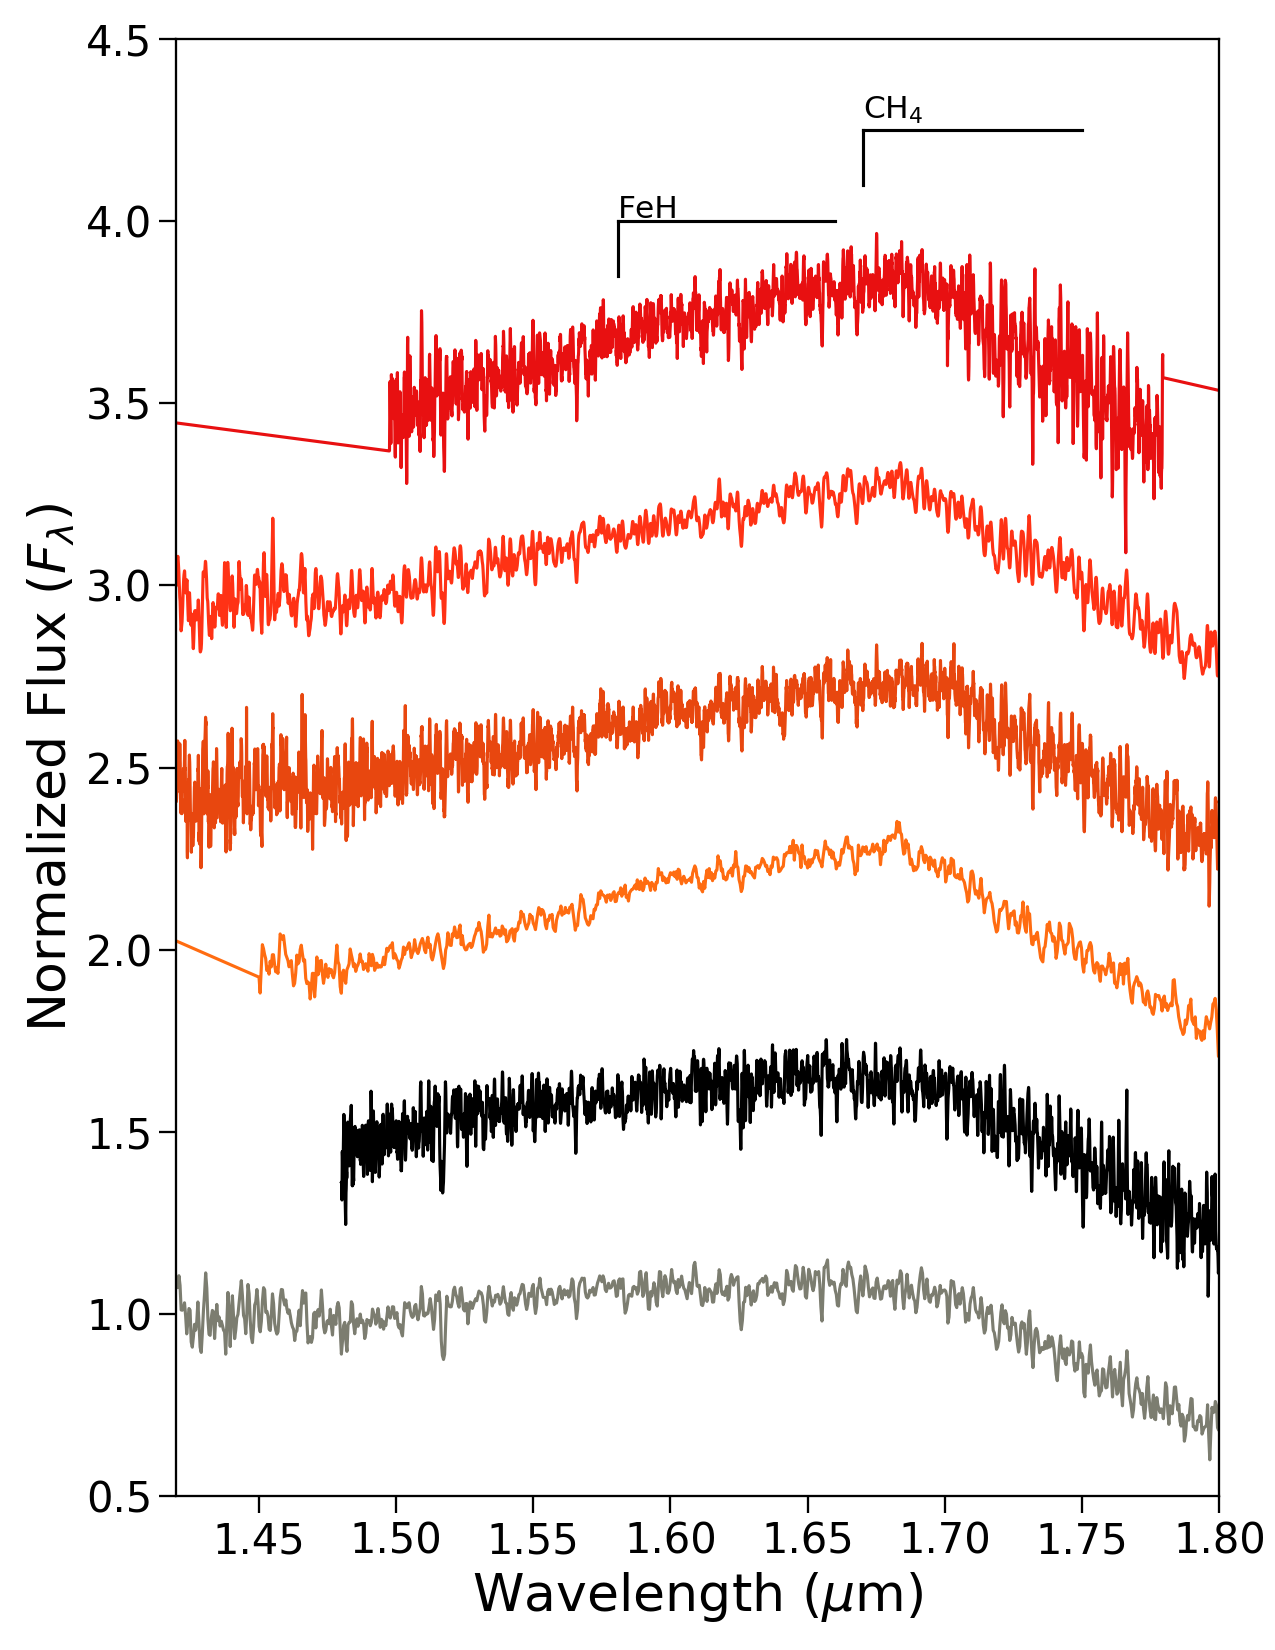
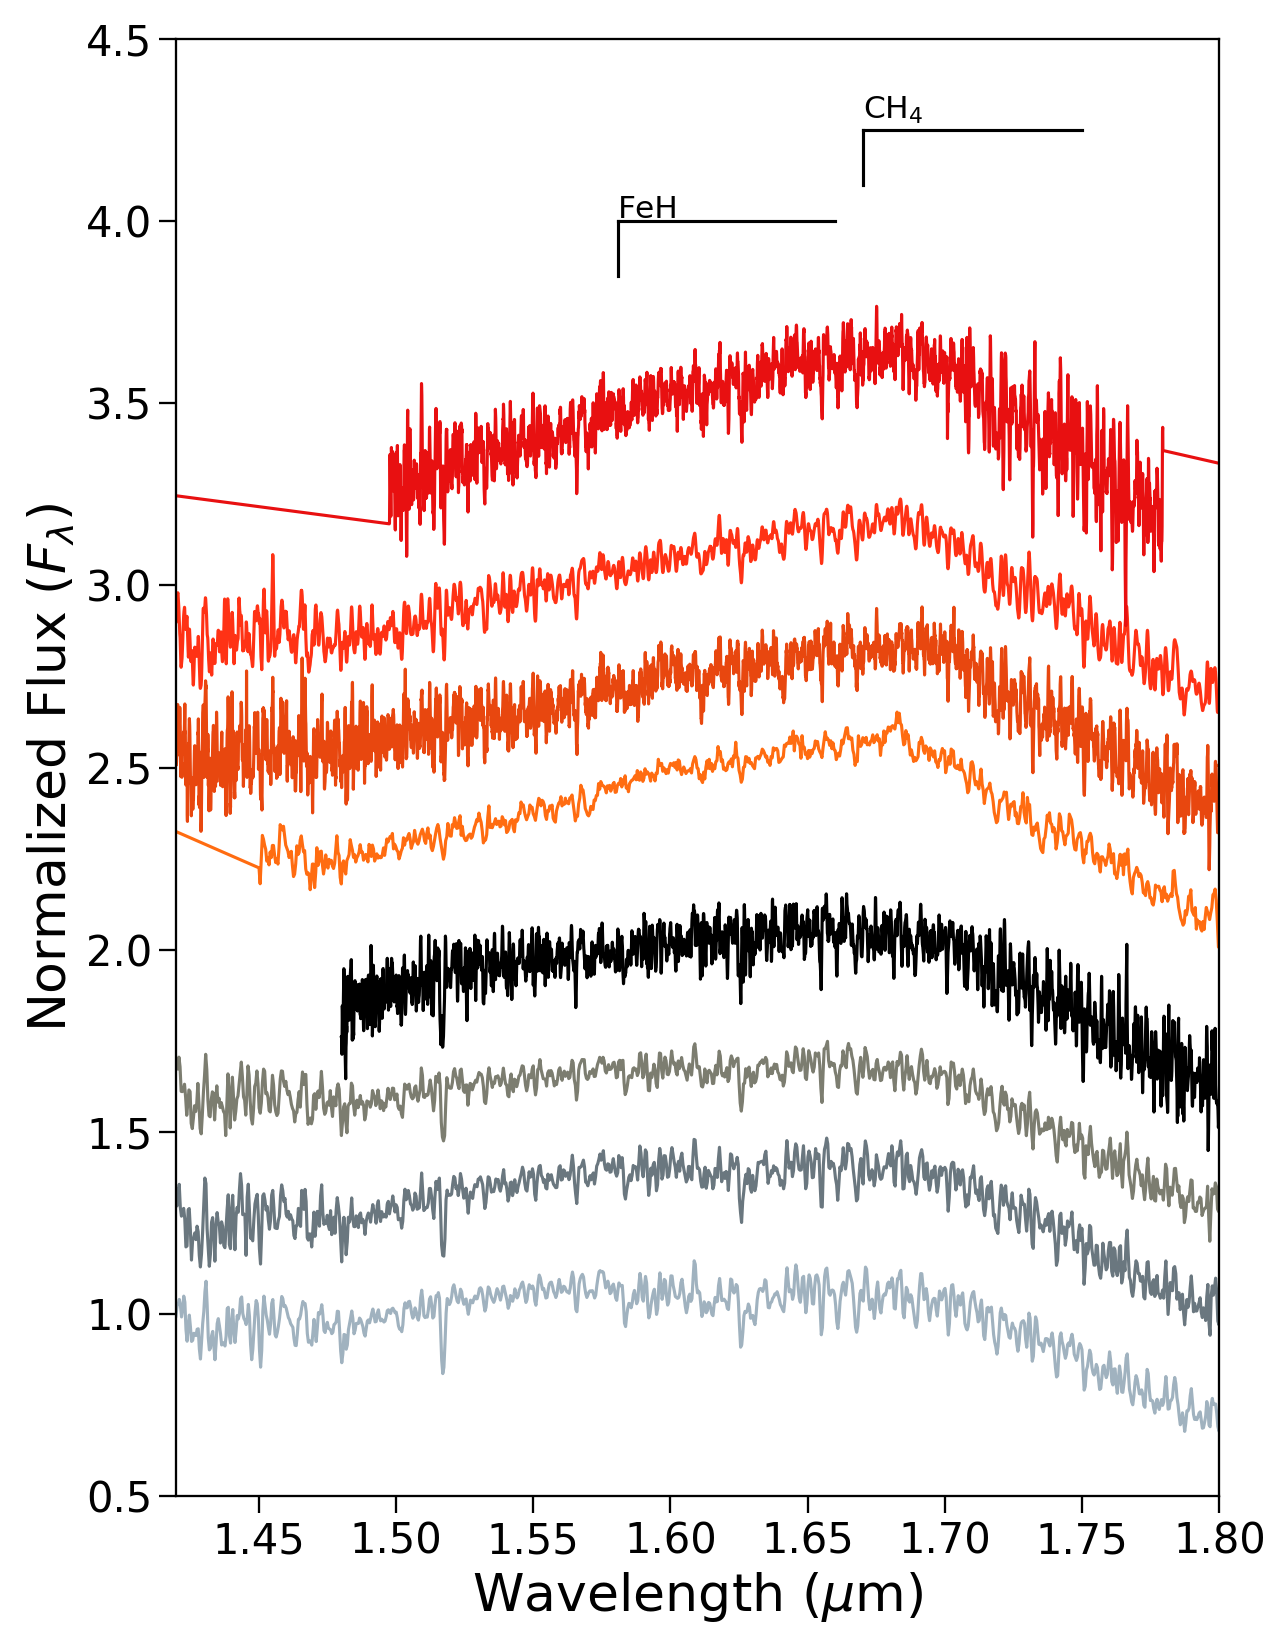
Added more field objects

Changed region(s): [[0.1224, 0.1545, 0.9788, 0.8655]]

diff --git a/YbandTeff_youngandfield.py b/YbandTeff_youngandfield.py
@@ -13,6 +13,10 @@ df_trap = pd.read_csv('Data/FIRE2306-0502 (M7.5) SED.txt', sep=" ", comment='#',
 # ----Field---
 df_vb8 = pd.read_csv('Data/field_comp/1655-0823 (M7) SED.txt', sep=" ", comment='#', header=None,
                        names=["w", "f", "err"])
+df_vb10 = pd.read_csv('Data/field_comp/1916+0508 (M8) SED.txt', sep=" ", comment='#', header=None,
+                       names=["w", "f", "err"])
+df_0320 = pd.read_csv('Data/field_comp/0320+1854 (M8) SED.txt', sep=" ", comment='#', header=None,
+                       names=["w", "f", "err"])
 # ----Young----
 df_twa27 = pd.read_csv('Data/young_comp/1207-3932A (M8) SED.txt', sep=" ", comment='#', header=None,
                       names=["w", "f", "err"])
@@ -32,6 +36,12 @@ norm_df_trap = df_trap['f']/(np.average(norm_region['f']))
 
 norm_region2 = df_vb8[(df_vb8['w'] >= 0.98) & (df_vb8['w'] <= 0.988)]
 norm_df_vb8 = df_vb8['f']/(np.average(norm_region2['f']))
+
+norm_region7 = df_vb10[(df_vb10['w'] >= 0.98) & (df_vb10['w'] <= 0.988)]
+norm_df_vb10 = df_vb10['f']/(np.average(norm_region7['f']))
+
+norm_region8 = df_0320[(df_0320['w'] >= 0.98) & (df_0320['w'] <= 0.988)]
+norm_df_0320 = df_0320['f']/(np.average(norm_region8['f']))
 
 norm_region3 = df_twa27[(df_twa27['w'] >= 0.98) & (df_twa27['w'] <= 0.988)]
 norm_df_twa27 = df_twa27['f']/(np.average(norm_region3['f']))
@@ -54,7 +64,7 @@ ax1 = fig.add_subplot(111)
 fig.set_size_inches(8.5, 11)
 plt.gcf().subplots_adjust(bottom=0.15, left=0.15)
 plt.xlim([0.95, 1.10])
-plt.ylim([0.5, 5.2])
+plt.ylim([0.25, 6.3])
 for axis in ['top', 'bottom', 'left', 'right']:  # Thicken the frame
     ax1.spines[axis].set_linewidth(1.1)
 
@@ -64,53 +74,55 @@ plt.xlabel('Wavelength ($\mu$m)', fontsize=25)
 plt.ylabel('Normalized Flux ($F_\lambda$)', fontsize=25)
 
 # -------- Add data -----------
-ax1.plot(df_vb8['w'], norm_df_vb8, c='#7C7D70')
-ax1.plot(df_trap['w'], norm_df_trap + .5, c='k')
-ax1.plot(df_twa27['w'], norm_df_twa27 + 1, c='#FF6C11')
-ax1.plot(df_twa28['w'], norm_df_twa28 + 1.5, c='#E8470F')
-ax1.plot(df_twa26['w'], norm_df_twa26 + 2, c='#FF3215')
-ax1.plot(df_twa29['w'], norm_df_twa29 + 3.1, c='#E81011')
+ax1.plot(df_0320['w'], norm_df_0320, c='#A0B2BF')
+ax1.plot(df_vb10['w'], norm_df_vb10 + 0.5, c='#6A777F')
+ax1.plot(df_vb8['w'], norm_df_vb8 + 1, c='#7C7D70')
+ax1.plot(df_trap['w'], norm_df_trap + 1.5, c='k')
+ax1.plot(df_twa27['w'], norm_df_twa27 + 2, c='#FF6C11')
+ax1.plot(df_twa28['w'], norm_df_twa28 + 2.5, c='#E8470F')
+ax1.plot(df_twa26['w'], norm_df_twa26 + 3, c='#FF3215')
+ax1.plot(df_twa29['w'], norm_df_twa29 + 4.1, c='#E81011')
 
 # --- To make lines for features ---------
 FeH1 = pd.DataFrame()
 FeH1['x'] = [0.9896, 1.0]
-FeH1['y'] = [4.4, 4.4]
+FeH1['y'] = [5.4, 5.4]
 plt.plot(FeH1['x'], FeH1['y'], color='k')
-ax1.annotate('FeH', xy=(0.9896, 4.41), color='k', fontsize=15)
+ax1.annotate('FeH', xy=(0.9896, 5.41), color='k', fontsize=15)
 # -- To make a vertical line
 FeH1d = pd.DataFrame()
 FeH1d['x'] = [0.9896, 0.9896]
-FeH1d['y'] = [4.2, 4.4]
+FeH1d['y'] = [5.2, 5.4]
 plt.plot(FeH1d['x'], FeH1d['y'], color='k')
 
 FeH2 = pd.DataFrame()
 FeH2['x'] = [0.998, 1.085]
-FeH2['y'] = [4.75, 4.75]
+FeH2['y'] = [5.75, 5.75]
 plt.plot(FeH2['x'], FeH2['y'], color='k')
-ax1.annotate('FeH', xy=(0.998, 4.76), color='k', fontsize=15)
+ax1.annotate('FeH', xy=(1.03, 5.76), color='k', fontsize=15)
 FeH2d = pd.DataFrame()
 FeH2d['x'] = [0.998, 0.998]
-FeH2d['y'] = [4.6, 4.75]
+FeH2d['y'] = [5.6, 5.75]
 plt.plot(FeH2d['x'], FeH2d['y'], color='k')
 
 VO = pd.DataFrame()
 VO['x'] = [1.0456, 1.08]
-VO['y'] = [4.54, 4.54]
+VO['y'] = [5.5, 5.5]
 plt.plot(VO['x'], VO['y'], color='k')
-ax1.annotate('VO', xy=(1.0456, 4.55), color='k', fontsize=15)
+ax1.annotate('VO', xy=(1.06, 5.51), color='k', fontsize=15)
 VOd = pd.DataFrame()
 VOd['x'] = [1.0456, 1.0456]
-VOd['y'] = [4.54, 4.41]
+VOd['y'] = [5.5, 5.35]
 plt.plot(VOd['x'], VOd['y'], color='k')
 
 H2O = pd.DataFrame()
 H2O['x'] = [1.08, 1.099]
-H2O['y'] = [5, 5]
+H2O['y'] = [6, 6]
 plt.plot(H2O['x'], H2O['y'], color='k')
-ax1.annotate('H$_\mathrm{2} $O', xy=(1.08, 5.05), color='k', fontsize=15)
+ax1.annotate('H$_\mathrm{2} $O', xy=(1.08, 6.05), color='k', fontsize=15)
 H2Od = pd.DataFrame()
 H2Od['x'] = [1.08, 1.08]
-H2Od['y'] = [4.85, 5]
+H2Od['y'] = [5.85, 6]
 plt.plot(H2Od['x'], H2Od['y'], color='k')
 
 plt.tight_layout()

diff --git a/Kbandteffcomp.py b/Kbandteffcomp.py
@@ -13,6 +13,10 @@ df_trap = pd.read_csv('Data/FIRE2306-0502 (M7.5) SED.txt', sep=" ", comment='#',
 # ----Field---
 df_vb8 = pd.read_csv('Data/field_comp/1655-0823 (M7) SED.txt', sep=" ", comment='#', header=None,
                        names=["w", "f", "err"])
+df_vb10 = pd.read_csv('Data/field_comp/1916+0508 (M8) SED.txt', sep=" ", comment='#', header=None,
+                       names=["w", "f", "err"])
+df_0320 = pd.read_csv('Data/field_comp/0320+1854 (M8) SED.txt', sep=" ", comment='#', header=None,
+                       names=["w", "f", "err"])
 # ----Young----
 df_twa27 = pd.read_csv('Data/young_comp/1207-3932A (M8) SED.txt', sep=" ", comment='#', header=None,
                       names=["w", "f", "err"])
@@ -32,6 +36,12 @@ norm_df_trap = df_trap['f']/(np.average(norm_region['f']))
 
 norm_region2 = df_vb8[(df_vb8['w'] >= 2.16) & (df_vb8['w'] <= 2.20)]
 norm_df_vb8 = df_vb8['f']/(np.average(norm_region2['f']))
+
+norm_region7 = df_vb10[(df_vb10['w'] >= 2.16) & (df_vb10['w'] <= 2.20)]
+norm_df_vb10 = df_vb10['f']/(np.average(norm_region7['f']))
+
+norm_region8 = df_0320[(df_0320['w'] >= 2.16) & (df_0320['w'] <= 2.20)]
+norm_df_0320 = df_0320['f']/(np.average(norm_region8['f']))
 
 norm_region3 = df_twa27[(df_twa27['w'] >= 2.16) & (df_twa27['w'] <= 2.20)]
 norm_df_twa27 = df_twa27['f']/(np.average(norm_region3['f']))
@@ -55,7 +65,7 @@ ax1 = fig.add_subplot(111)
 fig.set_size_inches(8.5, 11)
 plt.gcf().subplots_adjust(bottom=0.15, left=0.15)
 plt.xlim([2.0, 2.35])
-plt.ylim([0.5, 4.5])
+plt.ylim([0.5, 5.5])
 for axis in ['top', 'bottom', 'left', 'right']:  # Thicken the frame
     ax1.spines[axis].set_linewidth(1.1)
 
@@ -65,34 +75,36 @@ plt.xlabel('Wavelength ($\mu$m)', fontsize=25)
 plt.ylabel('Normalized Flux ($F_\lambda$)', fontsize=25)
 
 # -------- Add data -----------
-ax1.plot(df_vb8['w'], norm_df_vb8, c='#7C7D70')
-ax1.plot(df_trap['w'], norm_df_trap + 0.5, c='k')
-ax1.plot(df_twa27['w'], norm_df_twa27 + 1, c='#FF6C11')
-ax1.plot(df_twa28['w'], norm_df_twa28 + 1.5, c='#E8470F')
-ax1.plot(df_twa26['w'], norm_df_twa26 + 2, c='#FF3215')
-ax1.plot(df_twa29['w'], norm_df_twa29 + 2.5, c='#E81011')
+ax1.plot(df_0320['w'], norm_df_0320, c='#A0B2BF')
+ax1.plot(df_vb10['w'], norm_df_vb10 + 0.5, c='#6A777F')
+ax1.plot(df_vb8['w'], norm_df_vb8 + 1, c='#7C7D70')
+ax1.plot(df_trap['w'], norm_df_trap + 1.5, c='k')
+ax1.plot(df_twa27['w'], norm_df_twa27 + 2, c='#FF6C11')
+ax1.plot(df_twa28['w'], norm_df_twa28 + 2.5, c='#E8470F')
+ax1.plot(df_twa26['w'], norm_df_twa26 + 3, c='#FF3215')
+ax1.plot(df_twa29['w'], norm_df_twa29 + 3.5, c='#E81011')
 
 # ------- Label Features --------------------------
 H2O = pd.DataFrame()
 H2O['x'] = [2.00, 2.20]
-H2O['y'] = [3.8, 3.8]
+H2O['y'] = [4.8, 4.8]
 plt.plot(H2O['x'], H2O['y'], color='k')
-ax1.annotate('H$_\mathrm{2} $O', xy=(2.09, 3.85), color='k', fontsize=15)
+ax1.annotate('H$_\mathrm{2} $O', xy=(2.09, 4.85), color='k', fontsize=15)
 
 CIA_H2 = pd.DataFrame()
 CIA_H2['x'] = [2.01, 2.34]
-CIA_H2['y'] = [4.2, 4.2]
+CIA_H2['y'] = [5.2, 5.2]
 plt.plot(CIA_H2['x'], CIA_H2['y'], color='k')
-ax1.annotate('CIA H$_\mathrm{2} $', xy=(2.15, 4.25), color='k', fontsize=15)
+ax1.annotate('CIA H$_\mathrm{2} $', xy=(2.15, 5.25), color='k', fontsize=15)
 
 CO = pd.DataFrame()
 CO['x'] = [2.295, 2.34]
-CO['y'] = [3.8, 3.8]
+CO['y'] = [4.8, 4.8]
 plt.plot(CO['x'], CO['y'], color='k')
-ax1.annotate('CO', xy=(2.31, 3.82), color='k', fontsize=15)
+ax1.annotate('CO', xy=(2.31, 4.82), color='k', fontsize=15)
 COd = pd.DataFrame()
 COd['x'] = [2.295, 2.295]
-COd['y'] = [3.65, 3.8]
+COd['y'] = [4.65, 4.8]
 plt.plot(COd['x'], COd['y'], color='k')
 
 plt.tight_layout()

diff --git a/Field_overall_comparison.py b/Field_overall_comparison.py
@@ -21,6 +21,15 @@ df_1655 = pd.read_csv('Data/field_comp/1655-0823 (M7) SED.txt', sep=" ", comment
 df_1655_phot = pd.read_csv('Data/field_comp/1655-0823 (M7) phot.txt', sep=" ", comment='#', header=None,
                             names=["w", "f", "err"])
 
+df_vb10 = pd.read_csv('Data/field_comp/1916+0508 (M8) SED.txt', sep=" ", comment='#', header=None,
+                       names=["w", "f", "err"])
+df_vb10_phot = pd.read_csv('Data/field_comp/1916+0508 (M8) phot.txt', sep=" ", comment='#', header=None,
+                       names=["w", "f", "err"])
+df_0320 = pd.read_csv('Data/field_comp/0320+1854 (M8) SED.txt', sep=" ", comment='#', header=None,
+                       names=["w", "f", "err"])
+df_0320_phot = pd.read_csv('Data/field_comp/0320+1854 (M8) phot.txt', sep=" ", comment='#', header=None,
+                       names=["w", "f", "err"])
+
 # -------------------------------------------------------------------------------------
 # ------------------- Plotting: Field Comparison of same Teff -------------------------------
 # -------------------------------------------------------------------------------------
@@ -41,15 +50,22 @@ ax1.scatter(df_trap_phot['w'], df_trap_phot['f'], c='k', s=70, zorder=10)
 ax1.loglog(df_0102['w'], df_0102['f'], c='#09D5D6')
 ax1.scatter(df_0102_phot['w'], df_0102_phot['f'], c='k', s=70)
 ax1.scatter(df_0102_phot['w'], df_0102_phot['f'], c='#09D5D6', s=50)
+ax1.loglog(df_vb10['w'], df_vb10['f'], c='green')
+ax1.scatter(df_vb10_phot['w'], df_vb10_phot['f'], c='k', s=70)
+ax1.scatter(df_vb10_phot['w'], df_vb10_phot['f'], c='green', s=50)
+ax1.loglog(df_0320['w'], df_0320['f'], c='#1EE801')
+ax1.scatter(df_0320_phot['w'], df_0320_phot['f'], c='k', s=70)
+ax1.scatter(df_0320_phot['w'], df_0320_phot['f'], c='#1EE801', s=50)
+
 #ax1.scatter(df_trap_phot['w'], df_trap_phot['f'], c='#7C7D70', s=50, zorder=10)
 
 
 # ----- Set axes limits, reformat ticks -----------
-plt.xlim([0.3, 24])
-plt.ylim([1*10**(-18), 3*10**(-14)])
+plt.xlim([0.3, 31])
+plt.ylim([4*10**(-20), 3*10**(-14)])
 ax1.xaxis.set_major_formatter(ScalarFormatter())
 ax1.xaxis.set_minor_formatter(ScalarFormatter())
-ax1.xaxis.set_minor_locator(plt.FixedLocator([0.3, 0.6, 2, 3, 7.5, 22]))
+ax1.xaxis.set_minor_locator(plt.FixedLocator([0.3, 0.6, 2, 3, 7.5, 31]))
 ax1.tick_params(axis='both', which='major', labelsize=20, length=8, width=1.1)
 ax1.tick_params(axis='both', which='minor', labelsize=20, length=4, width=1.1)
 plt.yticks(fontsize=20)
@@ -59,9 +75,11 @@ plt.xlabel('Wavelength ($\mu m$)', fontsize=25)
 plt.ylabel('Flux  ($erg\ s^{-1} cm^{-2} A^{-1}$)', fontsize=25)
 
 # ------ Labeling Spectra and Photometric points --------
-ax1.annotate('Trappist-1 (M7.5) $T_\mathrm{eff}: 2589 \pm 49$ K', xy=(2.85, 10**(-14)), color='k', fontsize=15)
+ax1.annotate('Trappist-1 (M7.5) $T_\mathrm{eff}: 2563 \pm 47$ K', xy=(2.85, 10**(-14)), color='k', fontsize=15)
 ax1.annotate('vb8 (M7) $T_\mathrm{eff}: 2641 \pm 36$ K', xy=(3.1, 5.2*10**(-15)), color='#04A57F', fontsize=15)
 ax1.annotate('LHS 132 (M8) $T_\mathrm{eff}: 2636 \pm 63$ K', xy=(3.1, 3*10**(-15)), color='#09D5D6', fontsize=15)
+ax1.annotate('vb10 (M8) $T_\mathrm{eff}: 2535 \pm 45$ K', xy=(4.1, 10**(-19)), color='green', fontsize=15)
+ax1.annotate('J0320+1854 (M8) $T_\mathrm{eff}: 2616 \pm 47$ K', xy=(4.1, 10**(-15)), color='#1EE801', fontsize=15)
 
 #TODO: Try a different color scheme maybe shades of grey for field objects?
 

diff --git a/Jbandteffcomp.py b/Jbandteffcomp.py
@@ -13,6 +13,10 @@ df_trap = pd.read_csv('Data/FIRE2306-0502 (M7.5) SED.txt', sep=" ", comment='#',
 # ----Field---
 df_vb8 = pd.read_csv('Data/field_comp/1655-0823 (M7) SED.txt', sep=" ", comment='#', header=None,
                        names=["w", "f", "err"])
+df_vb10 = pd.read_csv('Data/field_comp/1916+0508 (M8) SED.txt', sep=" ", comment='#', header=None,
+                       names=["w", "f", "err"])
+df_0320 = pd.read_csv('Data/field_comp/0320+1854 (M8) SED.txt', sep=" ", comment='#', header=None,
+                       names=["w", "f", "err"])
 # ----Young----
 df_twa27 = pd.read_csv('Data/young_comp/1207-3932A (M8) SED.txt', sep=" ", comment='#', header=None,
                       names=["w", "f", "err"])
@@ -32,6 +36,12 @@ norm_df_trap = df_trap['f']/(np.average(norm_region['f']))
 
 norm_region2 = df_vb8[(df_vb8['w'] >= 1.22) & (df_vb8['w'] <= 1.23)]
 norm_df_vb8 = df_vb8['f']/(np.average(norm_region2['f']))
+
+norm_region7 = df_vb10[(df_vb10['w'] >= 1.22) & (df_vb10['w'] <= 1.23)]
+norm_df_vb10 = df_vb10['f']/(np.average(norm_region7['f']))
+
+norm_region8 = df_0320[(df_0320['w'] >= 1.22) & (df_0320['w'] <= 1.23)]
+norm_df_0320 = df_0320['f']/(np.average(norm_region8['f']))
 
 norm_region3 = df_twa27[(df_twa27['w'] >= 1.22) & (df_twa27['w'] <= 1.23)]
 norm_df_twa27 = df_twa27['f']/(np.average(norm_region3['f']))
@@ -54,7 +64,7 @@ ax1 = fig.add_subplot(111)
 fig.set_size_inches(8.5, 11)
 plt.gcf().subplots_adjust(bottom=0.15, left=0.15)
 plt.xlim([1.12, 1.35])
-plt.ylim([0, 5])
+plt.ylim([0.25, 6])
 for axis in ['top', 'bottom', 'left', 'right']:  # Thicken the frame
     ax1.spines[axis].set_linewidth(1.1)
 
@@ -64,12 +74,17 @@ plt.xlabel('Wavelength ($\mu$m)', fontsize=25)
 plt.ylabel('Normalized Flux ($F_\lambda$)', fontsize=25)
 
 # -------- Add data -----------
-ax1.plot(df_vb8['w'], norm_df_vb8, c='#7C7D70')
-ax1.plot(df_trap['w'], norm_df_trap + 1, c='k')
-ax1.plot(df_twa27['w'], norm_df_twa27 + 1.5, c='#FF6C11')
-ax1.plot(df_twa28['w'], norm_df_twa28 + 2, c='#E8470F')
-ax1.plot(df_twa26['w'], norm_df_twa26 + 2.5, c='#FF3215')
-ax1.plot(df_twa29['w'], norm_df_twa29 + 3.1, c='#E81011')
+ax1.plot(df_0320['w'], norm_df_0320, c='#A0B2BF')
+ax1.plot(df_vb10['w'], norm_df_vb10 + 0.6, c='#6A777F')
+ax1.plot(df_vb8['w'], norm_df_vb8 + 1.1, c='#7C7D70')
+ax1.plot(df_trap['w'], norm_df_trap + 1.8, c='k')
+ax1.plot(df_twa27['w'], norm_df_twa27 + 2.3, c='#FF6C11')
+ax1.plot(df_twa28['w'], norm_df_twa28 + 2.75, c='#E8470F')
+ax1.plot(df_twa26['w'], norm_df_twa26 + 3.25, c='#FF3215')
+ax1.plot(df_twa29['w'], norm_df_twa29 + 4, c='#E81011')
+
+plt.tight_layout()
+plt.savefig('Figures/Jbandteffcomp.png', dpi=150)
 
 # TODO: Add these labels in later, and correct size
 # ------- Label Features --------------------------
@@ -137,6 +152,3 @@ H2Od = pd.DataFrame()
 H2Od['x'] = [1.32, 1.32]
 H2Od['y'] = [2.75, 2.9]
 plt.plot(H2Od['x'], H2Od['y'], color='k')
-
-plt.tight_layout()
-plt.savefig('Figures/Jbandteffcomp.png', dpi=150)

diff --git a/HbandTeffcomp.py b/HbandTeffcomp.py
@@ -13,6 +13,10 @@ df_trap = pd.read_csv('Data/FIRE2306-0502 (M7.5) SED.txt', sep=" ", comment='#',
 # ----Field---
 df_vb8 = pd.read_csv('Data/field_comp/1655-0823 (M7) SED.txt', sep=" ", comment='#', header=None,
                      names=["w", "f", "err"])
+df_vb10 = pd.read_csv('Data/field_comp/1916+0508 (M8) SED.txt', sep=" ", comment='#', header=None,
+                       names=["w", "f", "err"])
+df_0320 = pd.read_csv('Data/field_comp/0320+1854 (M8) SED.txt', sep=" ", comment='#', header=None,
+                       names=["w", "f", "err"])
 # ----Young----
 df_twa27 = pd.read_csv('Data/young_comp/1207-3932A (M8) SED.txt', sep=" ", comment='#', header=None,
                        names=["w", "f", "err"])
@@ -32,6 +36,12 @@ norm_df_trap = df_trap['f']/(np.average(norm_region['f']))
 
 norm_region2 = df_vb8[(df_vb8['w'] >= 1.5) & (df_vb8['w'] <= 1.52)]
 norm_df_vb8 = df_vb8['f']/(np.average(norm_region2['f']))
+
+norm_region7 = df_vb10[(df_vb10['w'] >= 1.5) & (df_vb10['w'] <= 1.52)]
+norm_df_vb10 = df_vb10['f']/(np.average(norm_region7['f']))
+
+norm_region8 = df_0320[(df_0320['w'] >= 1.5) & (df_0320['w'] <= 1.52)]
+norm_df_0320 = df_0320['f']/(np.average(norm_region8['f']))
 
 norm_region3 = df_twa27[(df_twa27['w'] >= 1.5) & (df_twa27['w'] <= 1.52)]
 norm_df_twa27 = df_twa27['f']/(np.average(norm_region3['f']))
@@ -84,12 +94,14 @@ plt.xlabel('Wavelength ($\mu$m)', fontsize=25)
 plt.ylabel('Normalized Flux ($F_\lambda$)', fontsize=25)
 
 # -------- Add data -----------
-ax1.plot(df_vb8['w'], norm_df_vb8, c='#7C7D70')
-ax1.plot(df_trap['w'], norm_df_trap + 0.5, c='k')
-ax1.plot(df_twa27['w'], norm_df_twa27 + 1, c='#FF6C11')
-ax1.plot(df_twa28['w'], norm_df_twa28 + 1.5, c='#E8470F')
-ax1.plot(df_twa26['w'], norm_df_twa26 + 2, c='#FF3215')
-ax1.plot(df_twa29['w'], norm_df_twa29 + 2.5, c='#E81011')
+ax1.plot(df_0320['w'], norm_df_0320, c='#A0B2BF')
+ax1.plot(df_vb10['w'], norm_df_vb10 + 0.3, c='#6A777F')
+ax1.plot(df_vb8['w'], norm_df_vb8 + 0.6, c='#7C7D70')
+ax1.plot(df_trap['w'], norm_df_trap + 0.9, c='k')
+ax1.plot(df_twa27['w'], norm_df_twa27 + 1.3, c='#FF6C11')
+ax1.plot(df_twa28['w'], norm_df_twa28 + 1.6, c='#E8470F')
+ax1.plot(df_twa26['w'], norm_df_twa26 + 1.9, c='#FF3215')
+ax1.plot(df_twa29['w'], norm_df_twa29 + 2.3, c='#E81011')
 
 # ------- Label Features --------------------------
 FeH = pd.DataFrame()
